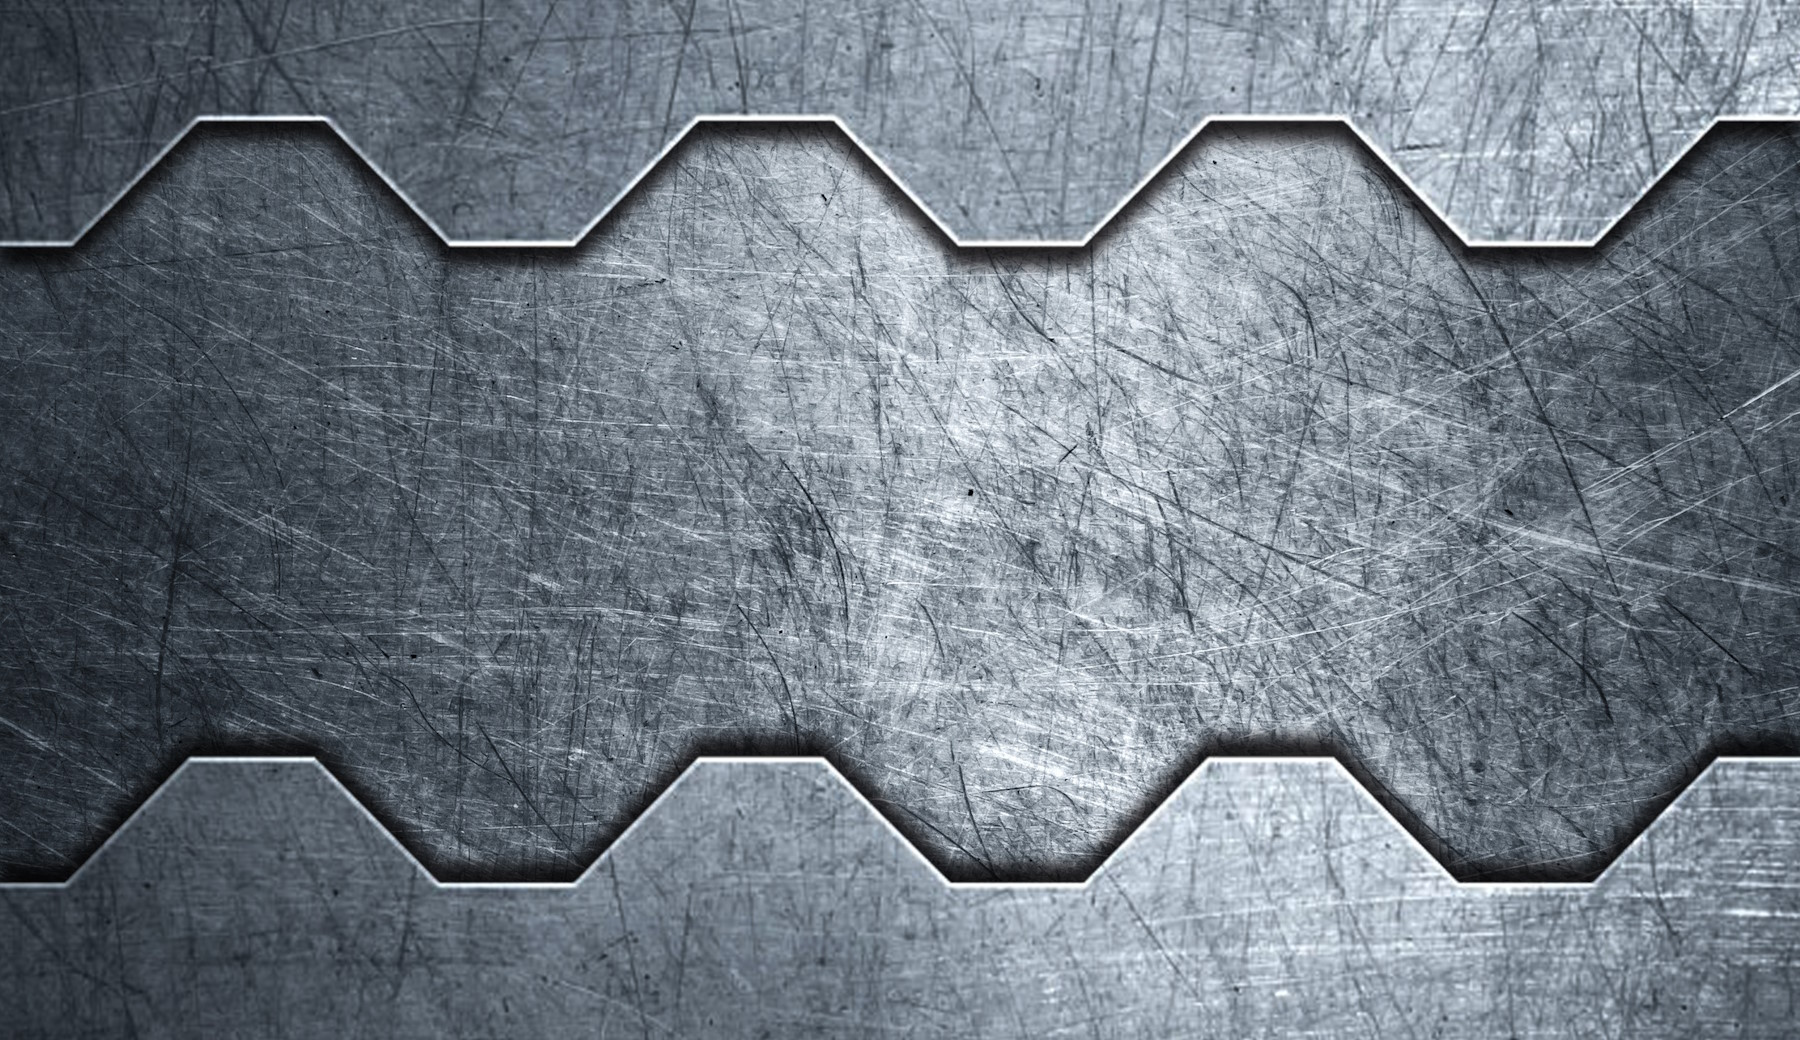
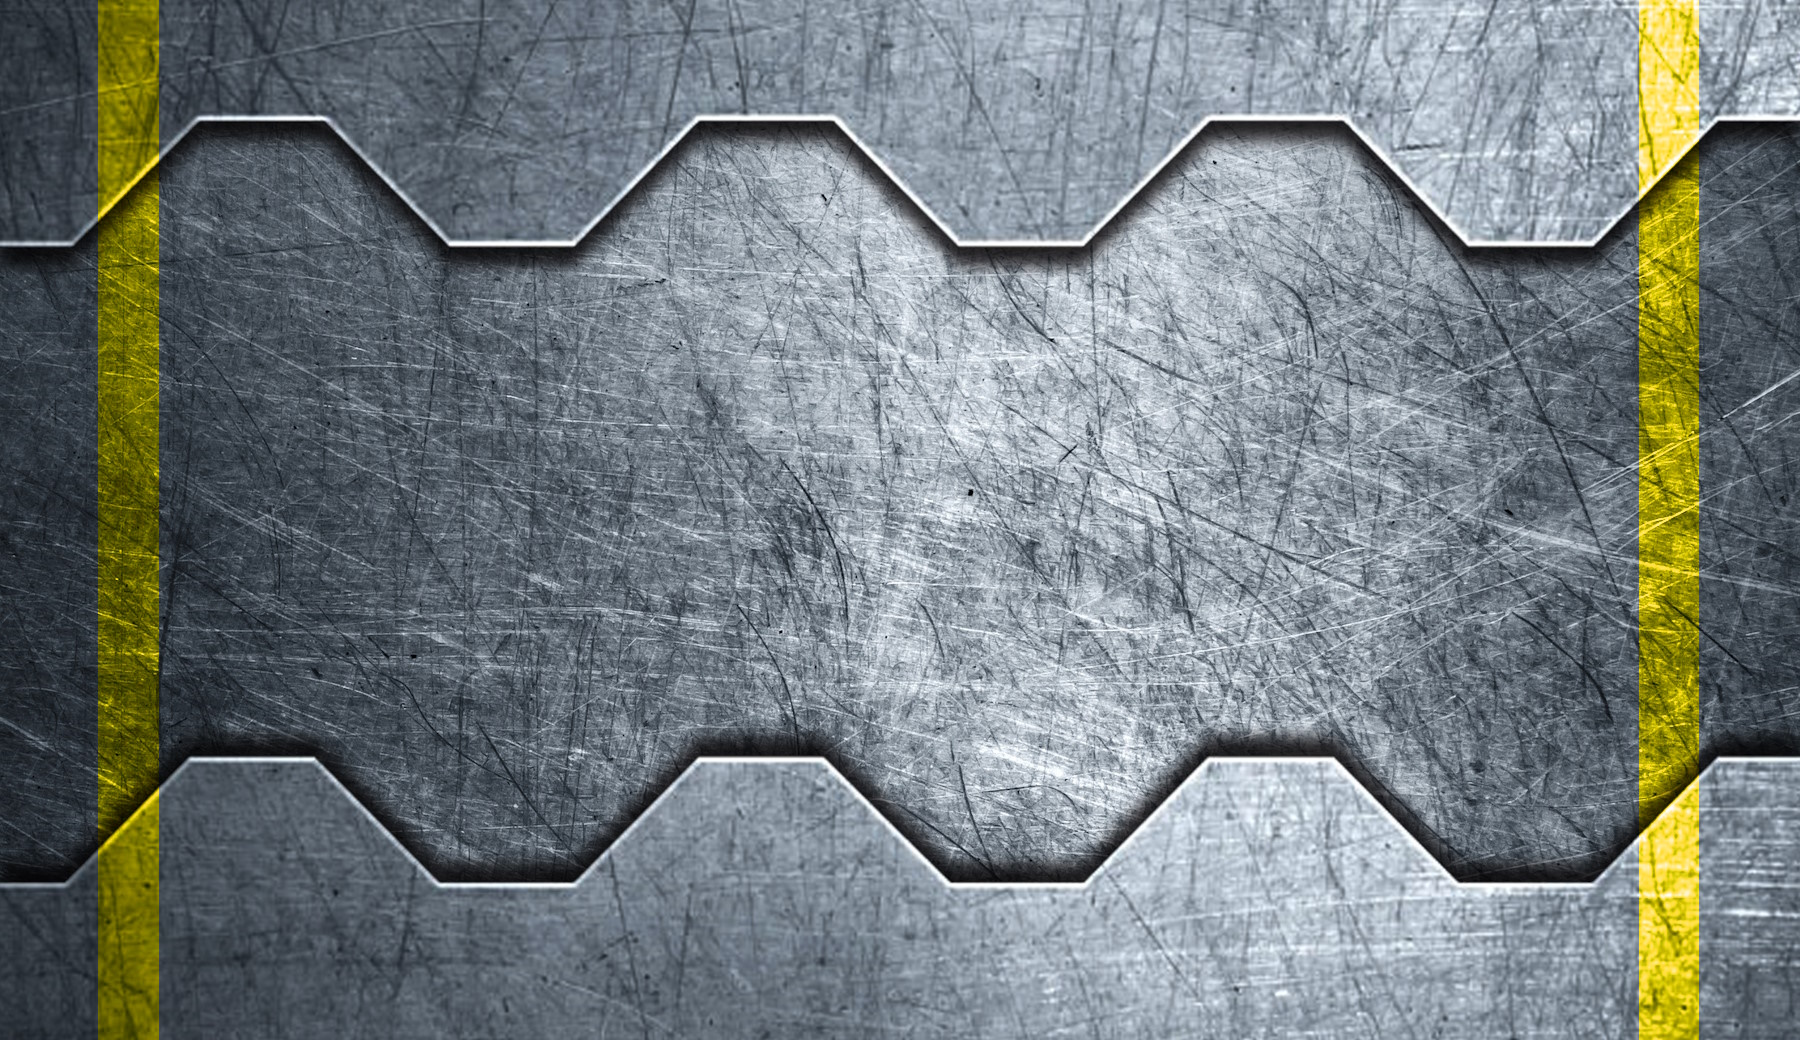
track edge texture

Changed region(s): [[0.9022, 0.0, 0.9644, 1.0], [0.0311, 0.0, 0.0933, 1.0]]

diff --git a/src/render/common/TrackRenderer.cpp b/src/render/common/TrackRenderer.cpp
@@ -6,7 +6,7 @@ void TrackRenderer::Init()
 {
     _groundTexture.Load(GraphicResources::GetTrackGround1TextureFilePath());
     _groundFinishTexture.Load(GraphicResources::GetTrackGroundFinishTextureFilePath());
-    //_edgeTexture.Load(GraphicResources::GetTrackEdgeTextureFilePath());
+    _edgeTexture.Load(GraphicResources::GetTrackEdgeTextureFilePath());
 }
 
 void TrackRenderer::Render(Track& track)
@@ -28,15 +28,15 @@ void TrackRenderer::RenderTrack(Track& track)
     const int segmentPointStep = 20;
     const int segmentsCount = 4;
 
-    glColor4f(1.0f, 1.0f, 1.0f, 0.3f);
+    glColor4f(1.0f, 1.0f, 1.0f, 0.5f);
     _groundTexture.Bind();
     RenderSegment(track, 0, track.StartFinishLineIndex, segmentPointStep, segmentsCount);
 
-    glColor4f(1.0f, 1.0f, 1.0f, 0.4f);
+    glColor4f(1.0f, 1.0f, 1.0f, 0.5f);
     _groundFinishTexture.Bind();
     RenderSegment(track, track.StartFinishLineIndex, track.StartFinishLineIndex + 2 * segmentsCount * segmentPointStep, segmentPointStep, segmentsCount);
 
-    glColor4f(1.0f, 1.0f, 1.0f, 0.3f);
+    glColor4f(1.0f, 1.0f, 1.0f, 0.5f);
     _groundTexture.Bind();
     RenderSegment(track, track.StartFinishLineIndex + 2 * segmentsCount * segmentPointStep, track.PointsCount, segmentPointStep, segmentsCount);
 
@@ -95,7 +95,7 @@ void TrackRenderer::RenderSegment(Track& track, int startPointIndex, int endPoin
 void TrackRenderer::RenderEdges(Track& track)
 {
     glColor3f(1.0f, 1.0f, 1.0f);
-    //_edgeTexture.Bind();
+    _edgeTexture.Bind();
 
     for (int edgeIndex = 0; edgeIndex < track.EdgesCount; edgeIndex++)
     {

diff --git a/src/model/Track.cpp b/src/model/Track.cpp
@@ -176,6 +176,7 @@ void Track::InitEdges(TrackEdges& edges, TrackPoints& trackPoints)
         pivotAxis.Normalize();
 
         Vector3 point = Normals[trackPointIndex];
+        point.Mul(-1.0f);
         point.SetLength(0.5f);
         point.Add(trackPoints[trackPointIndex]);
 
